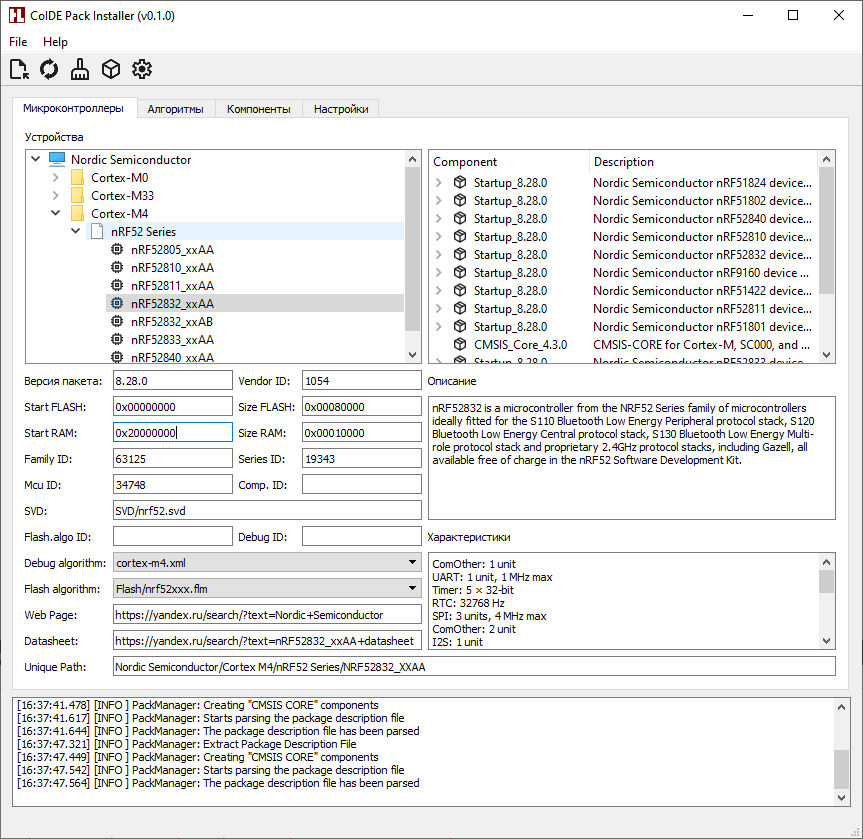
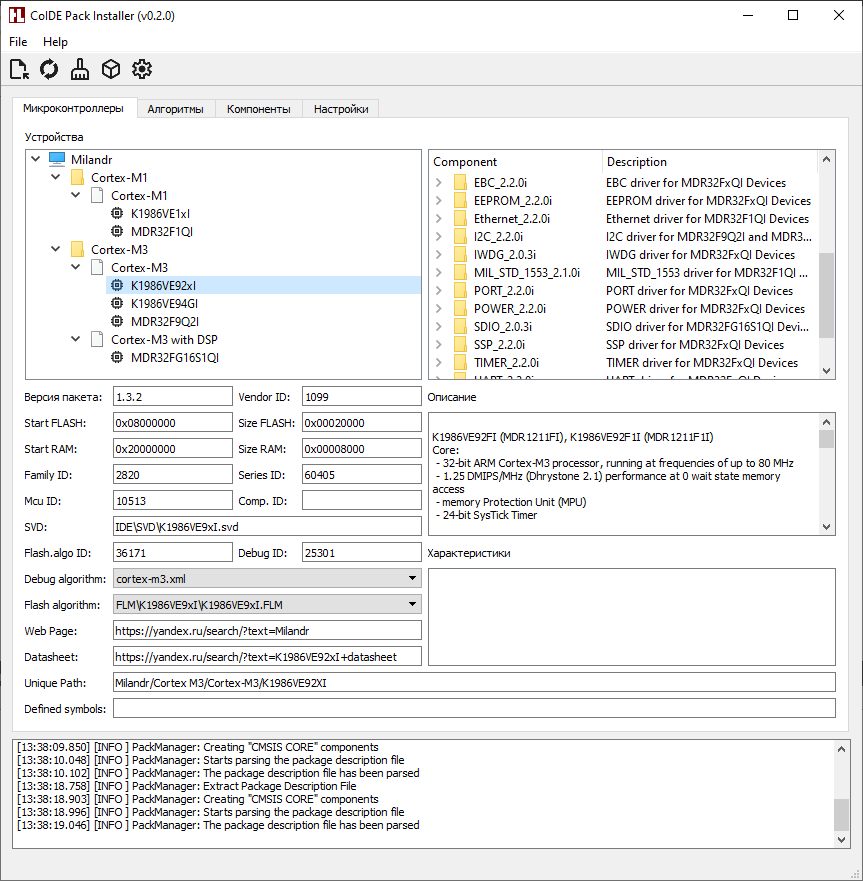
Обновлена версия программы v0.2.0

diff --git a/src/common/version.h b/src/common/version.h
@@ -4,10 +4,10 @@
 #pragma once
 
 #define APP_NAME           "CoIDE Pack Installer"
-#define APP_VERSION        "0.1.1"
+#define APP_VERSION        "0.2.0"
 #define APP_VERSION_MAJOR  0
-#define APP_VERSION_MINOR  1
-#define APP_VERSION_PATCH  1
+#define APP_VERSION_MINOR  2
+#define APP_VERSION_PATCH  0
 #define APP_BUILD_DATE     __DATE__
 #define APP_BUILD_TIME     __TIME__
 #define APP_AUTHOR         "Andrey Osipov"

diff --git a/readme.md b/readme.md
@@ -1,6 +1,6 @@
 ## CoIDE Pack Installer
 
-**Version:** 0.1.1
+**Version:** 0.2.0
 
 Утилита для установки и управления CMSIS-пакетами (Device Family Pack, Software Pack) в среде разработки CoIDE. Позволяет автоматизировать процесс загрузки и установки пакетов для ARM-микроконтроллеров.
 
@@ -19,7 +19,8 @@
 
 - `NordicSemiconductor.nRF_DeviceFamilyPack` (версии 8.11.1, 8.15.4, 8.28.0)
 - `Microchip.SAMD21_DFP.3.7.262-unsi9ned.1.pack`
-- `Milandr.MDR32FxQI_DFP.1.3.2-unsi9ned.1.pack`
+- `Milandr.MDR32FxQI_DFP.1.3.2-unsi9ned.2.pack`
+- `Milandr.MDR32FxQI_Examples.1.3.2-unsi9ned.2.pack`
 
 > **Примечание:** Для пакетов других производителей работа не гарантируется. Возможны ошибки при разборе `.pdsc` или интеграции компонентов.
 
